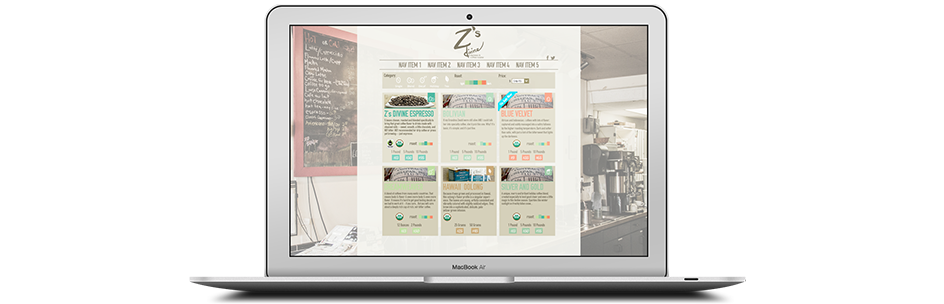
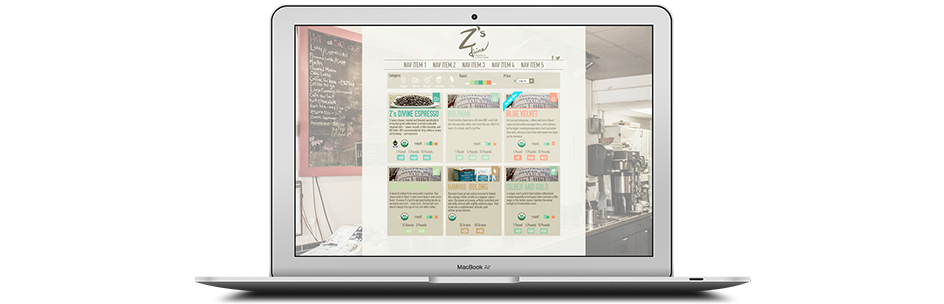
Framework done(ish) content loading

diff --git a/css/things.css b/css/things.css
@@ -1,60 +1,106 @@
-.thingbox{
-	width: 980px;
-	height: 350px;
-	background-color: #fff;
-	-webkit-box-shadow: 0 1px 5px rgba(0,0,0,.33);
-	-moz-box-shadow: 0 1px 5px rgba(0,0,0,.33);
-	box-shadow: 0 1px 5px rgba(0,0,0,.33);
-	margin: 0 auto;
+html, body {
+	font-family: "Source Sans Pro";
 }
 
-h1{
-	font-family: "Source Sans Pro";
+#container{
+	margin: 0 auto;
+	padding: 0;
+	width: 980px;
+}
+
+.title{
+	text-align: center;
+	margin: 0 0 50px;
+}
+
+.title h1{
 	font-size: 70px;
 	font-weight: 700;
 	color: #e0e0e0;
 	text-shadow: 0 -1px #b7b7b7;
+	margin: 0;
 }
 
-h3{
-	font-family: "Source Sans Pro";
+.title h2 {
 	font-size: 40px;
 	font-weight: 200;
 	color: #e0e0e0;	
-	margin-top: -50px;
-	margin-bottom: 30px;
+	margin: 0;
 }
 
-.title{
-	margin-left: auto;
-	margin-right: auto;
-	text-align: center;
+.project {
+	-webkit-box-shadow: 0 1px 5px rgba(0,0,0,.33);
+	-moz-box-shadow: 0 1px 5px rgba(0,0,0,.33);
+	box-shadow: 0 1px 5px rgba(0,0,0,.33);
+	margin: 0 auto 100px;
 }
-
-img.project{
-	width: 944; 
-	height: 304;
-	margin: 41px 0 0 0;
+.project.logo{
+	margin: 10px auto;
 }
-
-
-#container{
-	margin: 0px auto 0;
-	padding: 10px 0 0 0;
-	width: 980px;
-}
-
-span{
-	font-family: "Source Sans Pro";
+.project h3 {
+	color: #e0e0e0;
 	font-size: 30px;
 	font-weight: 400;
-	color: #e0e0e0;	
+	padding: 5px 0 0 15px;
+	margin: 0;
+}
+.project img {
+	margin: 10px 0 0 0;
+	padding: 0;
 }
 
-span.project{
-	margin: 30px 0 0 15px; 
-}
+.dribbble {
+	position:relative;
+	display: block;
+	background:url(/images/drib.png)no-repeat;
+	transition:all 0.4s linear;
+	-webkit-transition:all 0.4s linear;
+	-moz-transition:all 0.4s linear;
+	-o-transition:all 0.4s linear;
+	}
+	.dribbble a{
+		display: block;
+		transition:all 0.2s linear;
+		-webkit-transition:all 0.2s linear;
+		-moz-transition:all 0.2s linear;
+		-o-transition:all 0.2s linear;
+		}
+	.arrow a:hover{
+	background:url(/images/dribhov.png)no-repeat;
+	}
+	
+.arrow span {
+	position:absolute;
+	top:1px;
+	right:0;
+	background:url(/about/img/arrows-hover.png)no-repeat right;
+	display:block;
+	width:35px;
+	height:35px;
+	opacity:0;
+	transition:opacity 0.4s;
+	-webkit-transition:opacity 0.4s;
+	-moz-transition:opacity 0.4s;
+	-o-transition:opacity 0.4s;
+	}
+	.page:hover span{opacity:1.0;}h2{
+		vertical-align:text-bottom;
+		font-size: 14px;
+		font-weight:200; 
+		transition:all 0.4s linear;
+		-webkit-transition:all 0.4s linear;
+		-moz-transition:all 0.4s linear;
+		-o-transition:all 0.4s linear;
+		}
 
 
+a.dribbble {
+	display: block;
+	width: 50px;
+	height: 50x;
+	background:url(/images/drib.png);
+	}
 
-		
+a.dribbble:hover {
+	background:url(/images/dribhov.png);
+	}

diff --git a/things.html b/things.html
@@ -9,14 +9,42 @@
   <body>
    	 <div id="container">
  	 	<div class="title">
- 	 		<h1> I am Joe Barber</h1>
- 	 		<h3> Designer of things</h3>
+ 	 		<h1>I am Joe Barber</h1>
+ 	 		<h2>Designer of things</h2>
+ 	 		<a href="http://dribbble.com/joebarber" class="dribbble"> </a>
  	 	</div>
- 	 <div class="thingbox">
- 	 <span class="project">This Web Project</span>
-	 	<img  class="project" src="images/zs.png" alt="Z's Espresso">
- 	 </div>
-  </div>
-
+ 	 	
+ 	 	
+ 		<div class="project">
+ 	 		<h3>This Web Project</h3>
+ 	 		<img src="images/zs.png" alt="Z's Espresso" title="Z's Espresso">
+ 	 	</div>
+ 	 	
+ 	 	<div class="project">
+ 	 		<h3>This iPhone Project</h3>
+ 	 		<img src="images/teamupp.png" alt="Teamupp iPhone App" title="Teamupp iPhone App">
+ 	 	</div>
+ 	 	
+ 	 	<div class="project">
+ 	 		<h3>This Web Project</h3>
+ 	 		<img src="images/frivvlus.png" alt="frivvlus" title="frivvlus">
+ 	 	</div>
+ 	 	
+ 	 	<div class="project">
+ 	 		<h3>This Web Project</h3>
+ 	 		<img src="images/cfp.png" style="padding:0 0 0 20px;" alt="Cityfoot Prints" title="City Footprints">
+ 	 	</div>
+ 	 	 	 	
+ 	 	<div class="project">
+ 	 		<h3>This Web Project</h3>
+ 	 		<img src="images/cfp.png" style="padding:0 0 0 20px;" alt="Cityfoot Prints" title="City Footprints">
+ 	 	</div>
+ 	 
+ 	  	<div class="project">
+ 	 		<h3>This Web Project</h3>
+ 	 		<img src="images/bluetree.png"  alt="bluetree casework" title="bluetree casework">
+ 	 	</div>
+ 	 	
+	 </div>
   </body>
 </html>
